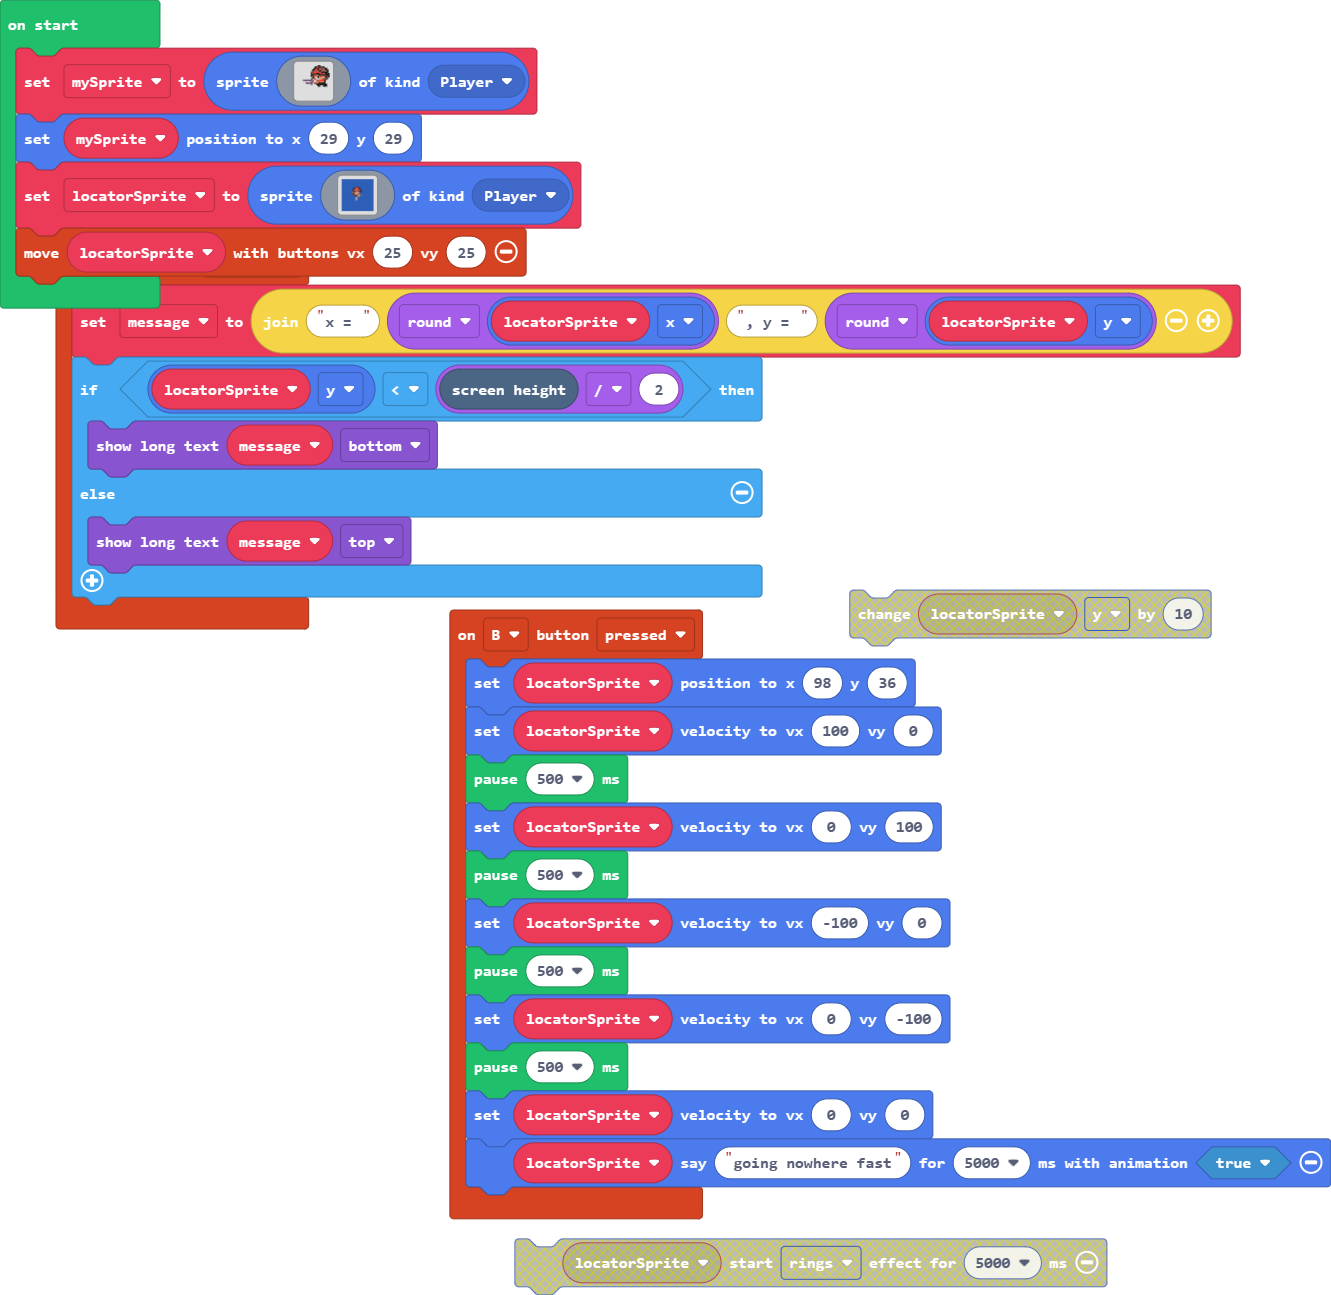
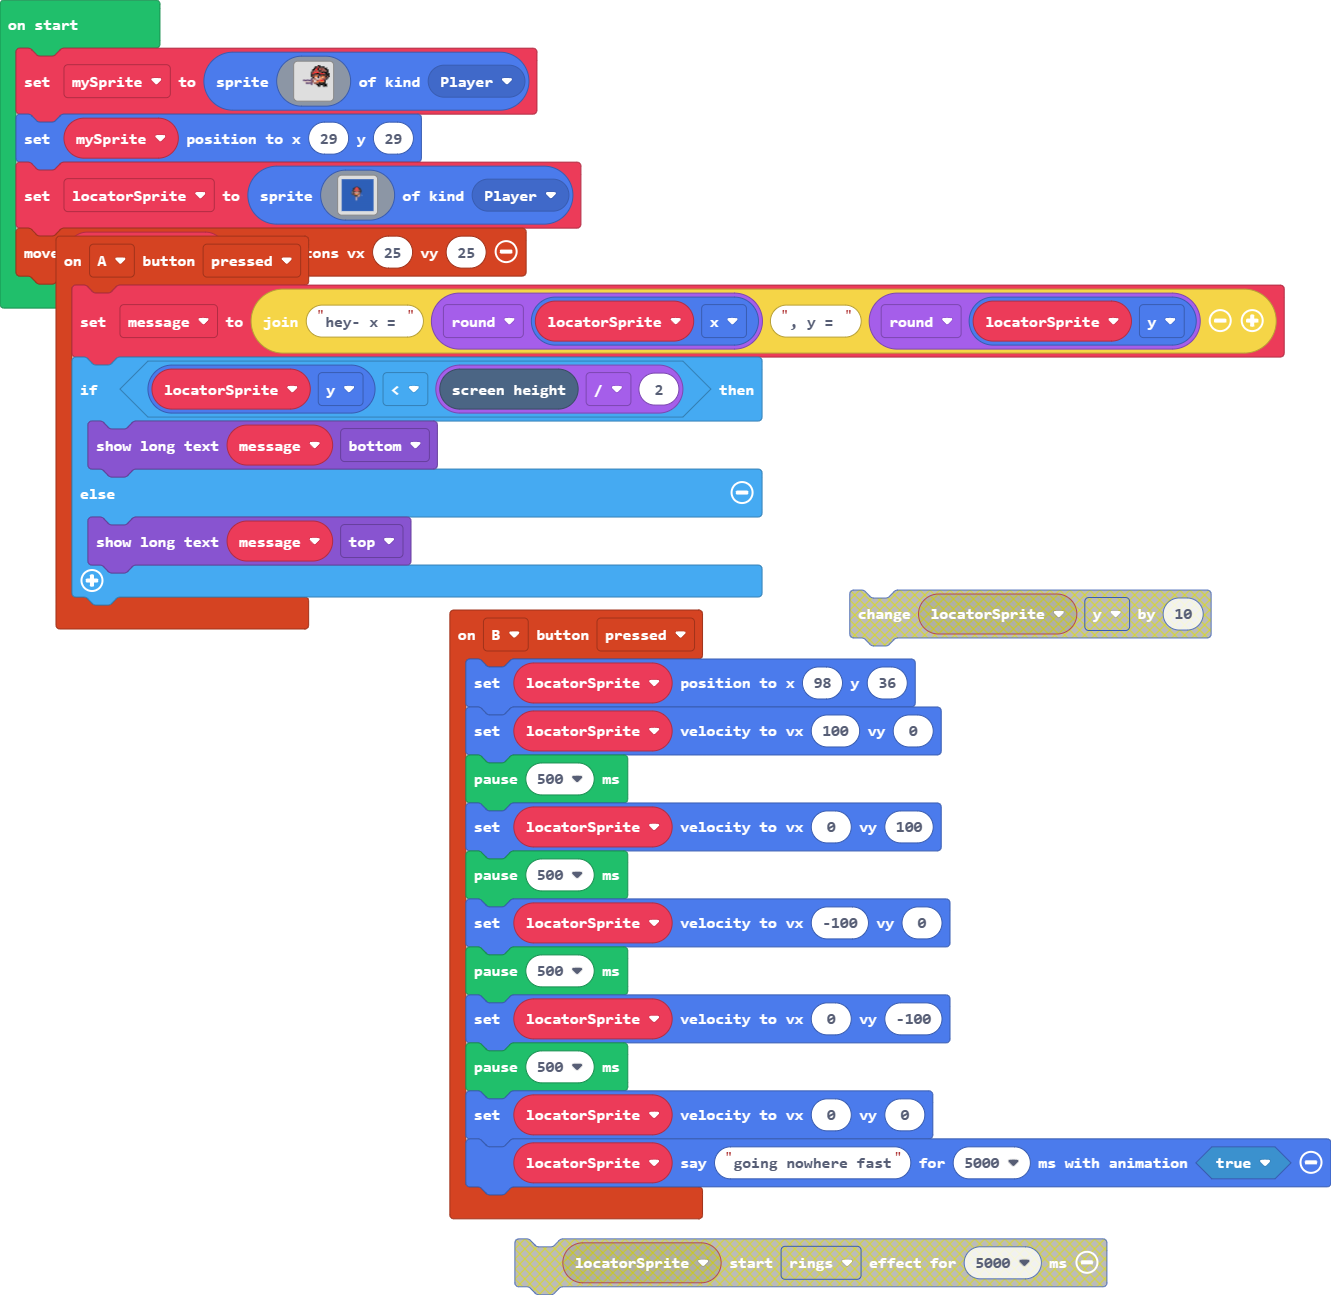
hey hey

Changed region(s): [[0.2772, 0.2162, 0.9857, 0.278], [0.0308, 0.1544, 0.2464, 0.2471]]

diff --git a/main.ts b/main.ts
@@ -12,7 +12,7 @@ controller.B.onEvent(ControllerButtonEvent.Pressed, function () {
     locatorSprite.sayText("going nowhere fast", 5000, true)
 })
 controller.A.onEvent(ControllerButtonEvent.Pressed, function () {
-    message = "x = " + Math.round(locatorSprite.x) + ", y = " + Math.round(locatorSprite.y)
+    message = "hey- x = " + Math.round(locatorSprite.x) + ", y = " + Math.round(locatorSprite.y)
     if (locatorSprite.y < scene.screenHeight() / 2) {
         game.showLongText(message, DialogLayout.Bottom)
     } else {
